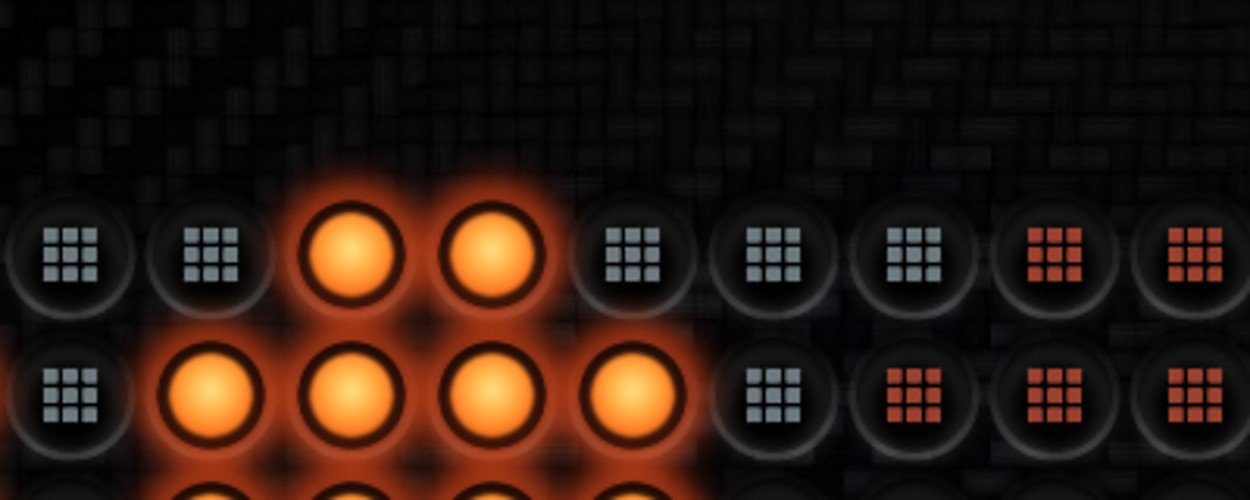
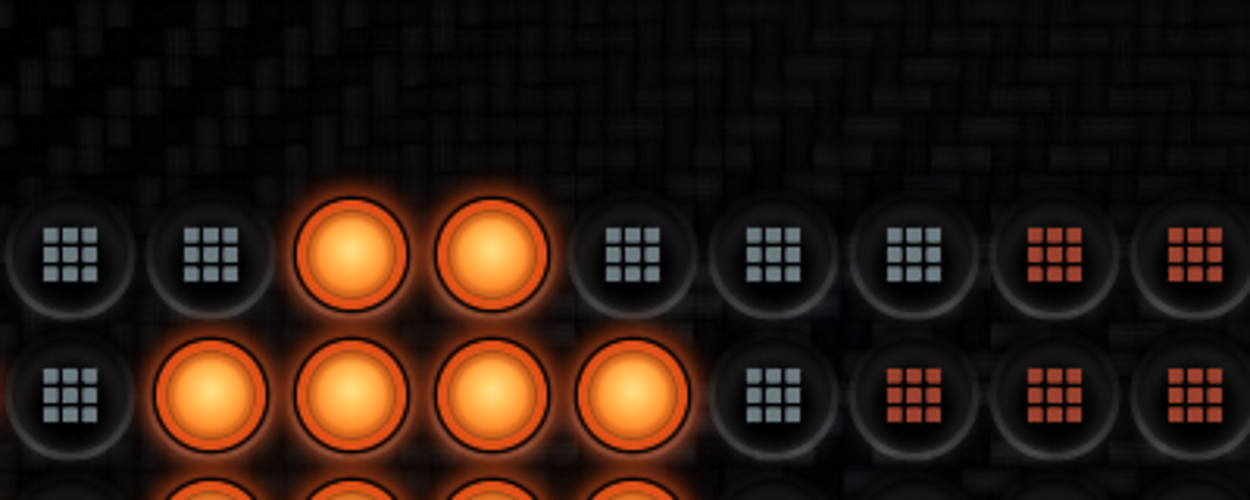
LEDs: layered rings like the reference (disc edge, gap, lit wall, bevel line, thin outer glow); smoother disc

Changed region(s): [[0.0936, 0.33, 0.5928, 1.0], [0.0, 0.69, 0.0312, 0.87], [0.0, 0.99, 0.0312, 1.0]]

diff --git a/TeamRadio/Views/CockpitKit.swift b/TeamRadio/Views/CockpitKit.swift
@@ -269,47 +269,55 @@ struct DotMatrixBoard: View {
                     }
                 }
 
-                // lit LEDs, after the reference: a faint halo on the surface, the cavity
-                // rim glowing thinly in the LED colour, a dark gap, then the luminous
-                // disc at ~70% of the cavity — bright core, darkening toward its edge
+                // lit LEDs, after the reference — from the centre outward: luminous
+                // disc with a slightly darker edge, a thin dark gap, the cavity wall
+                // lit as a thin ring, a dark bevel line, then a thin glow outside
                 let glowing = lit.map { (center($0.key % 1000, $0.key / 1000), $0.value) }
                 let warm = page == 0
-                let rimColor = warm ? Color(red: 0.95, green: 0.3, blue: 0.1) : Color(red: 0.1, green: 0.65, blue: 0.75)
+                let rimColor = warm ? Color(red: 0.96, green: 0.34, blue: 0.1) : Color(red: 0.12, green: 0.68, blue: 0.78)
+                let edgeColor = warm ? Color(red: 0.9, green: 0.42, blue: 0.12) : Color(red: 0.18, green: 0.72, blue: 0.86)
+                // faint surface halo
                 ctx.drawLayer { layer in
                     layer.blendMode = .plusLighter
-                    layer.addFilter(.blur(radius: hole * 0.45))
-                    for (p, k) in glowing { disc(p, hole * 1.3, .color(rimColor.opacity(0.16 * k)), in: &layer) }
+                    layer.addFilter(.blur(radius: hole * 0.4))
+                    for (p, k) in glowing { disc(p, hole * 1.25, .color(rimColor.opacity(0.12 * k)), in: &layer) }
                 }
-                // the rim: blurred outward, then the cavity is re-cut so its inner edge is crisp
+                // thin outer glow, blurred outward only (the cavity is re-cut below)
                 ctx.drawLayer { layer in
-                    layer.addFilter(.blur(radius: 1.6))
+                    layer.addFilter(.blur(radius: 1.0))
                     for (p, k) in glowing {
-                        layer.stroke(Path(ellipseIn: rect(p, hole * 1.02)), with: .color(rimColor.opacity(0.85 * k)), lineWidth: 2.4)
+                        layer.stroke(Path(ellipseIn: rect(p, hole * 1.03)), with: .color(rimColor.opacity(0.8 * k)), lineWidth: 1.2)
                     }
                 }
                 for (p, k) in glowing {
-                    disc(p, hole * 0.93, .linearGradient(Gradient(colors: [Color.black.opacity(0.97), Color.black.opacity(0.72)]),
+                    // re-cut the cavity, then the lit wall ring and the dark bevel line
+                    disc(p, hole * 0.97, .linearGradient(Gradient(colors: [Color.black.opacity(0.97), Color.black.opacity(0.75)]),
                                                          startPoint: CGPoint(x: p.x, y: p.y - hole), endPoint: CGPoint(x: p.x, y: p.y + hole)), in: &ctx)
-                    disc(p, hole * 0.93, .color(rimColor.opacity(0.12 * k)), in: &ctx)
+                    ctx.stroke(Path(ellipseIn: rect(p, hole * 0.95)), with: .color(.black.opacity(0.85 * k)), lineWidth: 0.9)
+                    ctx.stroke(Path(ellipseIn: rect(p, hole * 0.86)), with: .color(rimColor.opacity(0.9 * k)), lineWidth: 1.1)
+                    disc(p, hole * 0.8, .color(rimColor.opacity(0.10 * k)), in: &ctx)
                 }
+                // the luminous disc: a long, even run from the pale core to the saturated edge
                 ctx.drawLayer { layer in
-                    layer.addFilter(.blur(radius: 0.25))
+                    layer.addFilter(.blur(radius: 0.3))
                     for (p, k) in glowing {
-                        let core = hole * 0.72
-                        // smooth run from the pale core to the saturated edge
+                        let core = hole * 0.7
                         let stops: [Gradient.Stop] = warm
-                            ? [.init(color: Color(red: 1.0, green: 0.87, blue: 0.52), location: 0),
-                               .init(color: Color(red: 1.0, green: 0.78, blue: 0.38), location: 0.3),
-                               .init(color: Color(red: 1.0, green: 0.66, blue: 0.26), location: 0.6),
-                               .init(color: Color(red: 1.0, green: 0.55, blue: 0.18), location: 0.85),
-                               .init(color: Color(red: 0.98, green: 0.47, blue: 0.14), location: 1)]
-                            : [.init(color: Color(red: 0.84, green: 1.0, blue: 1.0), location: 0),
-                               .init(color: Color(red: 0.62, green: 0.97, blue: 1.0), location: 0.3),
-                               .init(color: Color(red: 0.42, green: 0.92, blue: 1.0), location: 0.6),
-                               .init(color: Color(red: 0.28, green: 0.85, blue: 0.98), location: 0.85),
-                               .init(color: Color(red: 0.2, green: 0.78, blue: 0.92), location: 1)]
+                            ? [.init(color: Color(red: 1.0, green: 0.88, blue: 0.55), location: 0),
+                               .init(color: Color(red: 1.0, green: 0.83, blue: 0.46), location: 0.2),
+                               .init(color: Color(red: 1.0, green: 0.76, blue: 0.36), location: 0.4),
+                               .init(color: Color(red: 1.0, green: 0.68, blue: 0.28), location: 0.6),
+                               .init(color: Color(red: 1.0, green: 0.6, blue: 0.21), location: 0.8),
+                               .init(color: Color(red: 1.0, green: 0.52, blue: 0.16), location: 1)]
+                            : [.init(color: Color(red: 0.86, green: 1.0, blue: 1.0), location: 0),
+                               .init(color: Color(red: 0.74, green: 0.99, blue: 1.0), location: 0.2),
+                               .init(color: Color(red: 0.6, green: 0.96, blue: 1.0), location: 0.4),
+                               .init(color: Color(red: 0.46, green: 0.92, blue: 1.0), location: 0.6),
+                               .init(color: Color(red: 0.34, green: 0.87, blue: 0.99), location: 0.8),
+                               .init(color: Color(red: 0.25, green: 0.82, blue: 0.95), location: 1)]
                         layer.opacity = 0.35 + 0.65 * k
                         disc(p, core, .radialGradient(Gradient(stops: stops), center: CGPoint(x: p.x, y: p.y - core * 0.12), startRadius: 0, endRadius: core), in: &layer)
+                        layer.stroke(Path(ellipseIn: rect(p, core)), with: .color(edgeColor), lineWidth: 0.8)
                     }
                 }
             }
